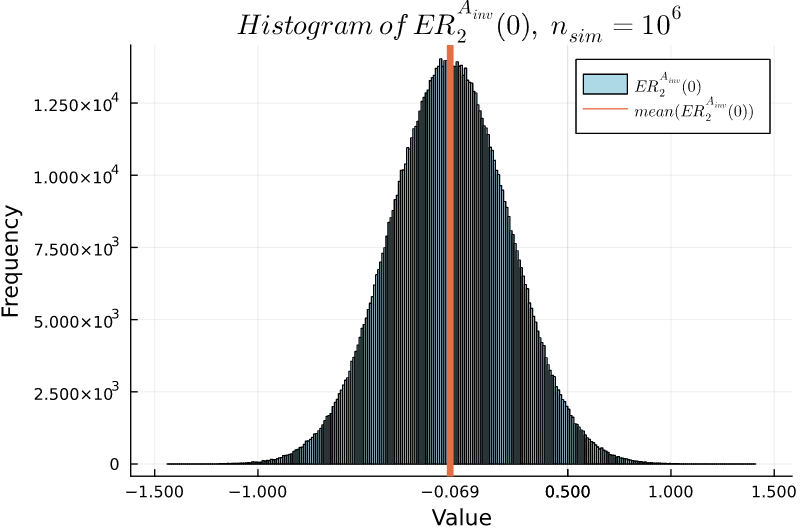
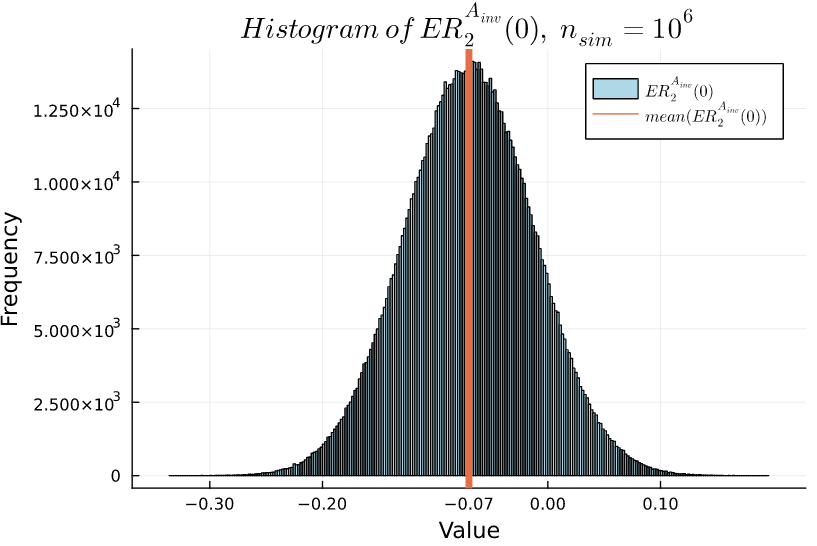
realized some errors in (a,b,c)-SOFR hedges, wrong scaling in ER_2(0)_A_inv, this is now fixed. Need to calculate f^(3M)(t,S,T) under Vasicek.

diff --git a/chapters/chapter5.tex b/chapters/chapter5.tex
@@ -692,14 +692,14 @@ f^{3M}(t,S,T)
 \label{result: optimal_SOFR_hedge_3MA_vs_3GM}
 Considering the above situation, we then have the following:
 \begin{align*}
-\argmin\limits_{a_{t} \in \R_{0}}\E_{Q}\left[
+\argmin\limits_{a_{t} \in \R}\E_{Q}\left[
 \left(
 X^{3M_{A}}(S,T)-a_{t}f^{3M}(t,S,T)
 \right)^{2}
 \bigg{|}\F_{t}
 \right] 
 \implies
-\hat{a}_{t} = \frac{
+\hat{a}_{t}^{3M} = \frac{
 \int_{S}^{T}\E_{Q}[r(u)|\F_{t}]du
 }{
 (T-S)f^{3M}(t,S,T)
@@ -907,7 +907,7 @@ $$
 X^{3M_{A}}(S,T) = \frac{1}{T-S}\int_{S}^{T}r_{u}du
 $$
 
-However, now we will not use the available 3M-SOFR future contract, rather we will hedge by buying three 1M-SOFR future contracts at time $t$. Here $[S,T]$ will still denote a 3M period, since we need to buy three futures to cover this interval, we get the following timeline: 
+However, now we will not use the available 3M-SOFR future contract, rather we will hedge by buying $(\hat{a}_{t}, \hat{b}_{t}, \hat{c}_{t})$ 1M-SOFR future contracts at time $t$. Here $[S,T]$ will still denote a 3M period, we get the following timeline:
 
 
 \begin{tikzpicture}[snake=zigzag, line before snake = 5mm, line after snake = 5mm]
@@ -938,7 +938,7 @@ However, now we will not use the available 3M-SOFR future contract, rather we wi
     \draw (7.0,0) node[below=3pt] {$ T $} node[above=3pt] {$   $};
   \end{tikzpicture}
 
-
+Our hedge will in this case look like: 
 \begin{align*}
 \argmin\limits_{(a_{t}, b_{t}, c_{t})\in \R^{3}}\E_{Q}\left[
 \left(
@@ -989,7 +989,7 @@ f^{1M}(t,T_{1M}, T_{2M})f^{1M}(t,T_{2M}, T)
 &+ c_{t}^{2}[f^{1M}(t,T_{2M}, T)]^{2}
 \end{align*} 
 
-Fix $t$, and denote $(a_{t}, b_{t}, c_{t}) = (x_{1}, x_{2}, x_{3}) = \mathbf{x}$ furthermore let: 
+Fix $t$, to ease the notation we denote $(a_{t}, b_{t}, c_{t}) = (x_{1}, x_{2}, x_{3}) = \mathbf{x}$ furthermore let: 
 \[
 \left(
 f^{1M}(t,S,T_{1M}),f^{1M}(t,T_{1M}, T_{2M}), f^{1M}(t,T_{2M}, T) 
@@ -1223,7 +1223,7 @@ A^{-1} &=
 \end{align*}
 \end{comment}
 
-Thus the optimal weight $\mathbf{x}$ will then be:   
+Thus the optimal weight $\hat{\mathbf{x}}$ will then be:   
 \begin{align*}
 \hat{\mathbf{x}} &= 
 A^{-1}\mathbf{b}
@@ -1235,12 +1235,14 @@ Now if the Condition \ref{eq: condition_det(A)_not_zero} does not hold, one appr
 \begin{align}
 \label{eq: Basis_Pursuit_lp}
 \begin{array}{ll@{}ll}
-\text{minimize}  & \displaystyle\sum\limits_{i=1}^{3}|x_{i}|&  &\\
+\text{minimize}  & \displaystyle\sum\limits_{i=1}^{3}x_{i}&  &\\
 \text{subject to}& \displaystyle   A\mathbf{x} = & \mathbf{b}
 \end{array}    
 \end{align}
 
-Assume that $\Tilde{\mathbf{x}}$ is the optimal solution to \ref{eq: Basis_Pursuit_lp}, this method is called the Basis Pursuit \cite{chen1998atomic}. 
+Assume that $\Tilde{\mathbf{x}}$ is the optimal solution to \ref{eq: Basis_Pursuit_lp}, this method is
+very much related to Basis Pursuit \cite{chen1998atomic}.
+
 
 
 \newpage 
@@ -1249,7 +1251,7 @@ Assume that $\Tilde{\mathbf{x}}$ is the optimal solution to \ref{eq: Basis_Pursu
 
 In order to say something about how good the hedge is in Result \ref{result: optimal_SOFR_hedge_3MA_vs_3GM}, we study: 
 \begin{align*}
-ER_{1}(t) :&= X^{3M_{A}}(S,T) - \hat{a}_{t}f^{3M}(t,S,T) \\ 
+ER_{1}(t) :&= X^{3M_{A}}(S,T) - \hat{a}_{t}^{3M}f^{3M}(t,S,T) \\ 
 &= \frac{1}{T-S}\int_{S}^{T}r(u)du - \frac{1}{T-S}\int_{S}^{T}\E_{Q}[r(u)|\F_{t}]du \\ 
 &= 
 \frac{1}{T-S}\left(
@@ -1284,6 +1286,12 @@ $ER_{1}(0)$ and $ER_{2}(0)$.
     \label{fig: Vasicek_path}
 \end{figure}
 
+For calculating the futures prices needed in $ER_{2}(t)$, we used Definition \ref{def: 1M_SOFR_futures}, p.\pageref{def: 1M_SOFR_futures}, meaning that: 
+\begin{align*}
+f^{1M}(t,S,T) &= \frac{1}{T-S}\E_{Q}\left[
+\int_{S}^{T}r(u)du\bigg{|}\F_{t}
+\right]   
+\end{align*}
 
 \newpage 
 
@@ -1307,19 +1315,31 @@ Here we compare $X^{3M_{A}}(S,T)$ where we buy $\hat{a}_{t}$ number of $3M$-SOFR
     \label{fig: ER_2_(0)_A_inv}
 \end{figure}
 
-For calculating the different futures prices, we used Definition \ref{def: 1M_SOFR_futures}, p.\pageref{def: 1M_SOFR_futures}, in this simulation we got: 
+The optimal weighting in 1M-SOFR futures turned out to be:
 \begin{align*}
-\hat{x} = 
+\hat{\mathbf{x}} = 
+\begin{bmatrix}
+\hat{a}_{t} \\
+\hat{b}_{t} \\
+\hat{c}_{t}
+\end{bmatrix}
+= 
 \begin{bmatrix}
 0.501 \\
 0.501 \\
 -0.004
 \end{bmatrix}
-\;\text{and}\; 
-\Tilde{x} = 
-\begin{bmatrix}
-0.499 \\ 
-0.498 \\ 
-0.0
-\end{bmatrix}
 \end{align*}
+
+\newpage 
+
+We see that Figure \ref{fig: ER_1_(0)} and Figure \ref{fig: ER_2_(0)_A_inv} are practically indifferent, meaning that under these assumption
+
+\begin{figure}[htp]
+    \centering
+    \includegraphics[width=12cm]{figures/SOFR/ER_2(0)_111.PNG}
+    \caption{Simulation of $ER_{2}^{(1,1,1)}(0)$}
+    \label{fig: ER_2_1_1_1}
+\end{figure}
+
+

diff --git a/chapters/chapter7.tex b/chapters/chapter7.tex
@@ -266,6 +266,7 @@ In this particular realization, we see that the criteria are not met at $T_{1}$ 
 \\~\\ 
 After 1 Million simulations we got:
 \\~\\
+\begin{center}
 \begin{tabular}{lcccl}
 \toprule
            &$C_{T_{i}}^{ESG}$ & $\kappa_{t}^{ZCB}$  & $\kappa_{t}^{ESG}$ \\
@@ -276,10 +277,11 @@ $T_{3}$ &  15.8 & 0.070 & 0.068 \\
 $T_{4}$ &  14.8 & 0.070 & 0.065 \\
 \bottomrule
 \end{tabular}
+\end{center}
 
 \begin{figure}[htp]
     \centering
-    \includegraphics[width= 10cm]{figures/ESG/kappa_t_ESG_1.png}
+    \includegraphics[width= 9cm]{figures/ESG/kappa_t_ESG_1.png}
     \caption{ESG-swap rate when ESG-criteria is reasonable}
     \label{fig: ESG_swap_1}
 \end{figure}
@@ -301,6 +303,7 @@ We see that the blue dots are always under the dark solid lines meaning that the
 \\~\\ 
 After 1 Million simulations we got:
 \\~\\
+\begin{center}
 \begin{tabular}{lcccl}
 \toprule
            &$C_{T_{i}}^{ESG}$ & $\kappa_{t}^{ZCB}$  & $\kappa_{t}^{ESG}$ \\
@@ -311,13 +314,17 @@ $T_{3}$ &  22 & 0.070 & 0.055 \\
 $T_{4}$ &  21 & 0.070 & 0.050 \\
 \bottomrule
 \end{tabular}
+\end{center}
+
 
 \begin{figure}[htp]
     \centering
-    \includegraphics[width= 10cm]{figures/ESG/kappa_t_ESG_2.png}
+    \includegraphics[width= 9cm]{figures/ESG/kappa_t_ESG_2.png}
     \caption{ESG-swap rate, when ESG-criteria is not reasonable for the lender}
     \label{fig: ESG_swap_2}
 \end{figure}
+
+Here we see the effect of how the discount $d$ works, for each $T_{i}$ we see that $\kappa_{t}^{ESG}$ goes down by the discount $d$. 
 
 \newpage 
 \textbf{unreasonable criteria, where criteria are never met}
@@ -336,6 +343,7 @@ The blue dots are consistently above the criteria, meaning that the criteria wil
 \\~\\ 
 After 1 Million simulations we got:
 \\~\\
+\begin{center}
 \begin{tabular}{lcccl}
 \toprule
            &$C_{T_{i}}^{ESG}$ & $\kappa_{t}^{ZCB}$  & $\kappa_{t}^{ESG}$ \\
@@ -346,7 +354,7 @@ $T_{3}$ &  22 & 0.070 & 0.085 \\
 $T_{4}$ &  21 & 0.070 & 0.090 \\
 \bottomrule
 \end{tabular}
-
+\end{center}
 
 \begin{figure}[htp]
     \centering
@@ -354,6 +362,8 @@ $T_{4}$ &  21 & 0.070 & 0.090 \\
     \caption{ESG-swap rate, when ESG-criteria is not reasonable for the borrower}
     \label{fig: ESG_swap_3}
 \end{figure}
+
+In this situation $d$ works like a penalty, and correspondingly $\kappa_{t}^{ESG}$ increases. 
 
 
 
